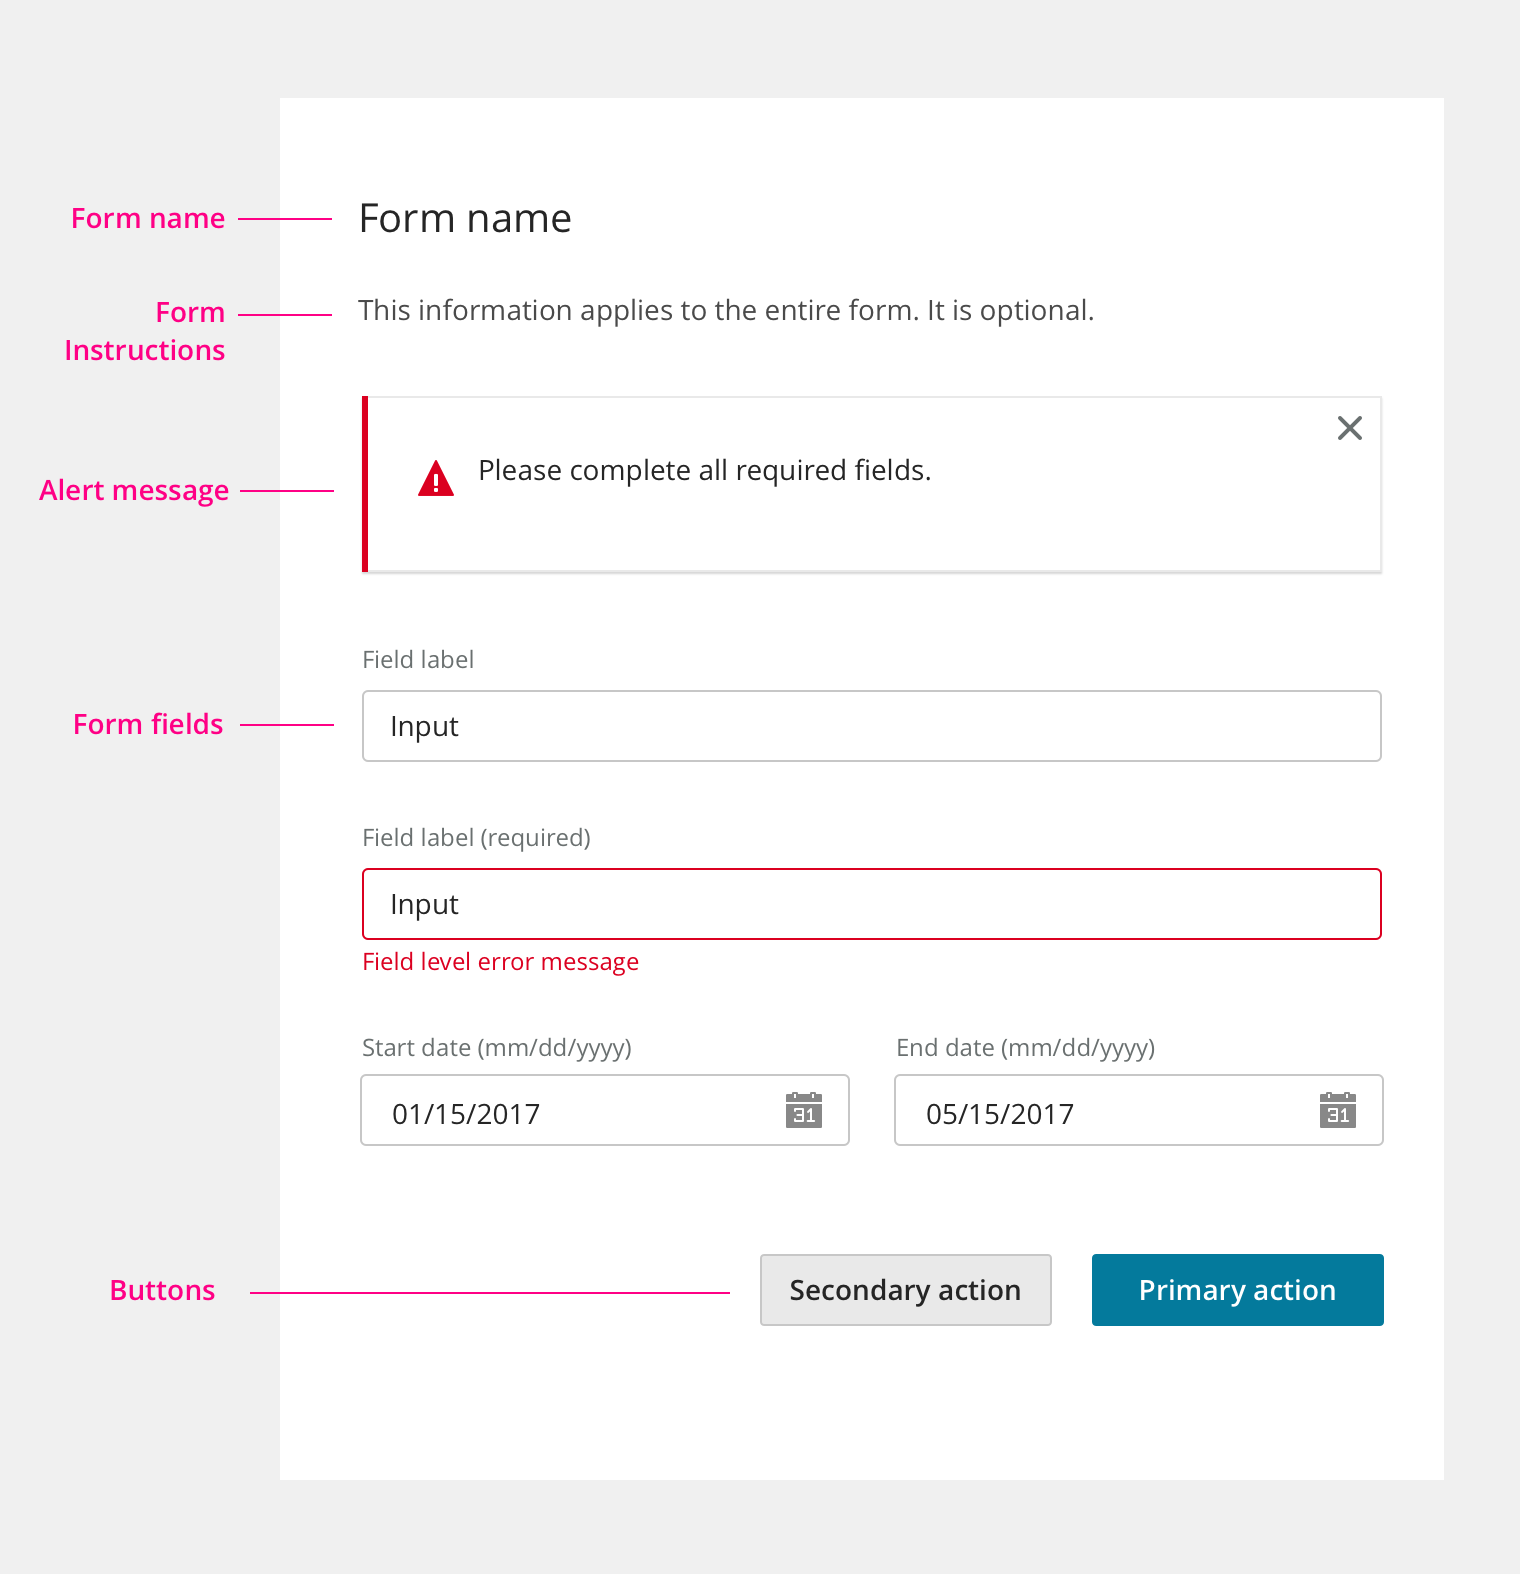
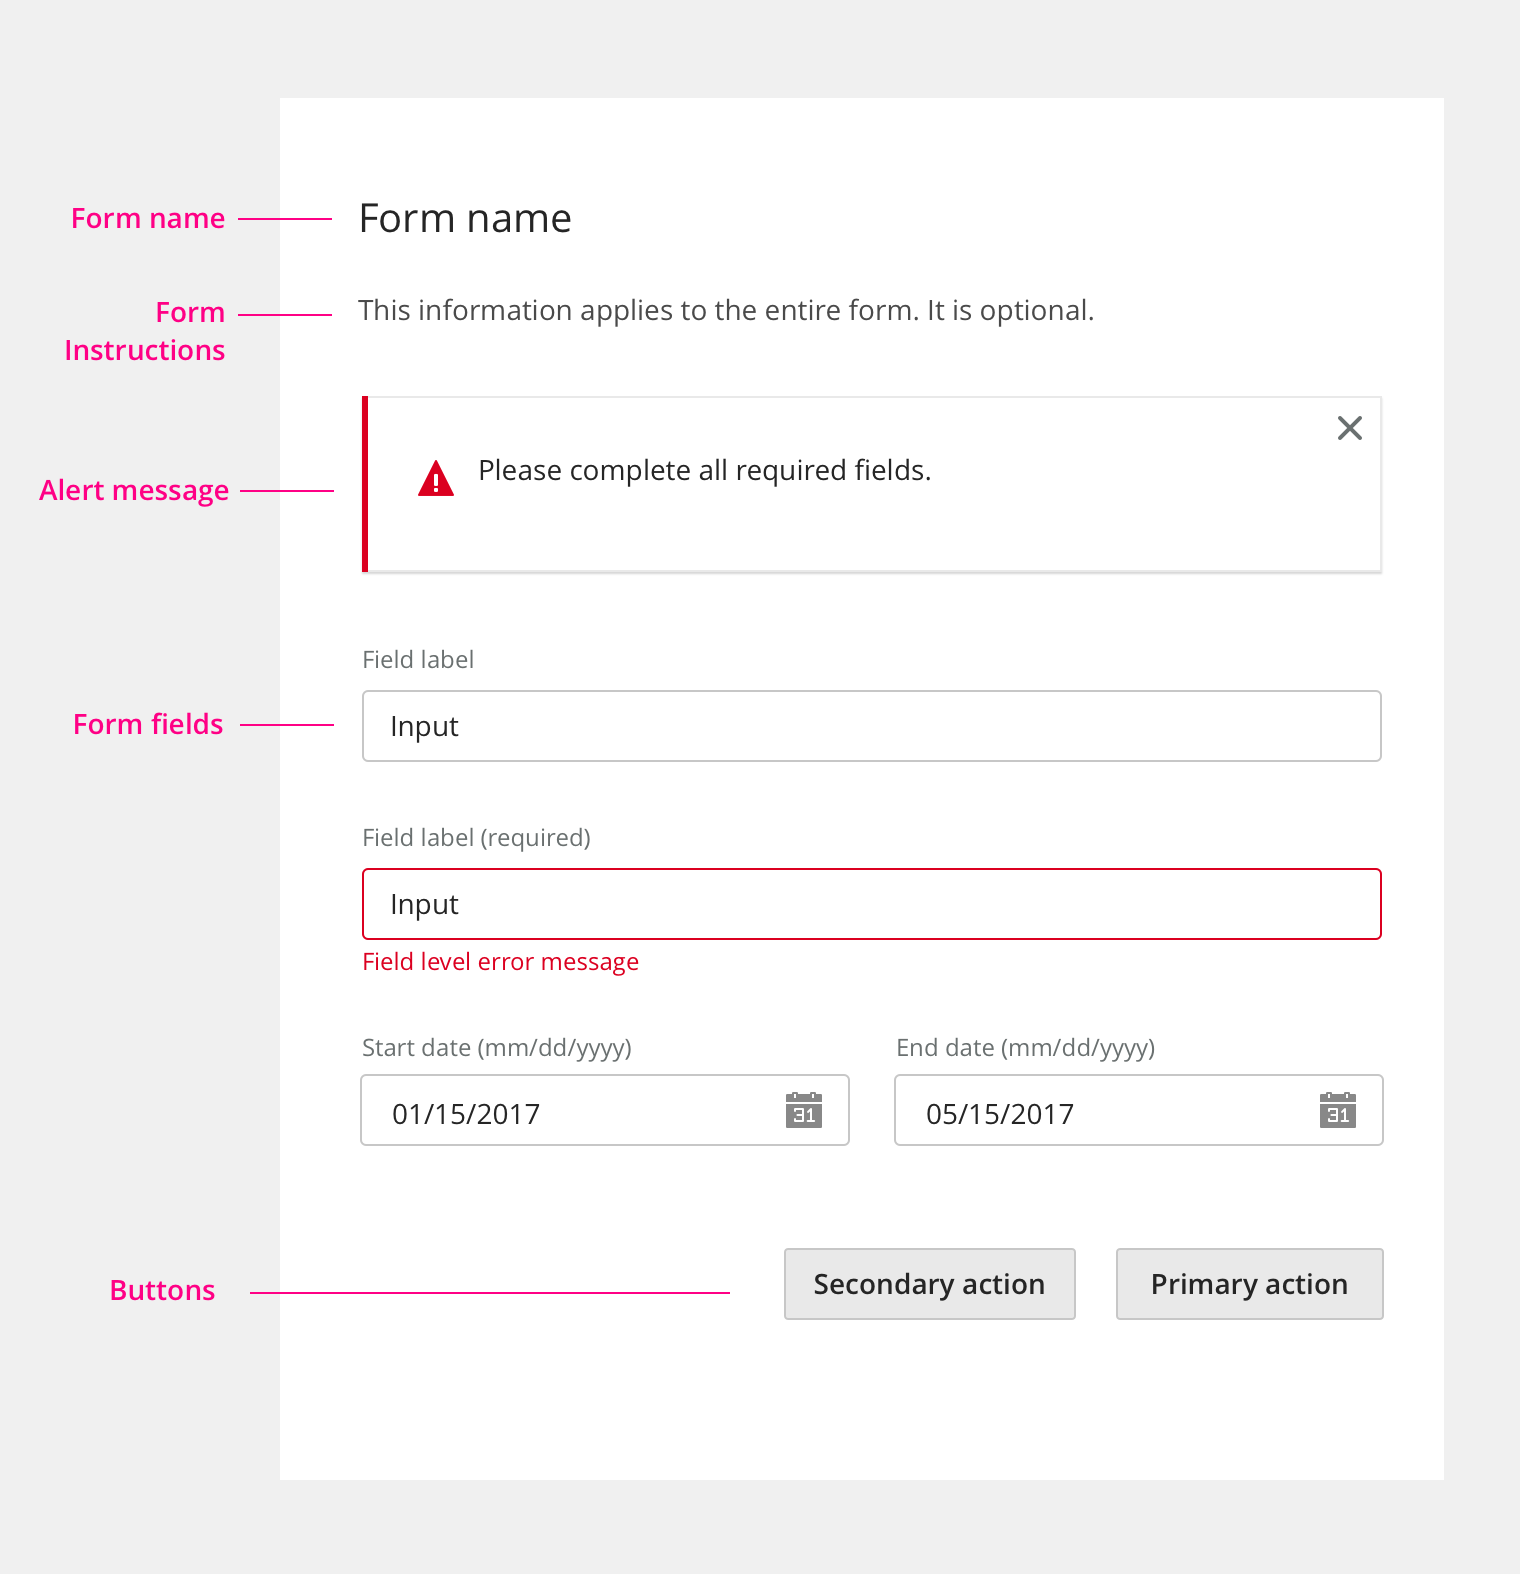
update large size button

Changed region(s): [[0.4947, 0.7783, 0.9276, 0.8405]]

diff --git a/c/forms/v1.0.0-beta.4/index.md b/c/forms/v1.0.0-beta.4/index.md
@@ -147,6 +147,8 @@ blocks:
       - type: wide image
         src: ./assets/redlines_form_error.png
       - type: wide image
+        src: ./assets/redlines_form_fancy.png
+      - type: wide image
         src: ./assets/redlines_form_mobile.png
 
 
